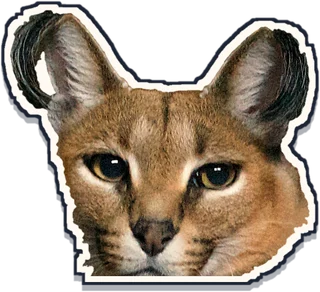
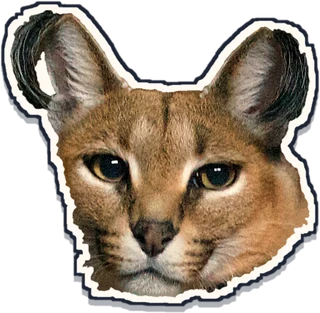
Give the staring floppa its chin back
* Drop the stare sticker's bottom crop, which sliced through its chin
* Regenerate stare.webp

> Committed on behalf of phinner by Opus 5.5

diff --git a/scripts/mascot/effects.py b/scripts/mascot/effects.py
@@ -78,8 +78,9 @@ def sticker(im, size, white=10, ink=5, shadow=10):
 
 if __name__ == "__main__":
     src_dir, out_dir = sys.argv[1], sys.argv[2]
-    # name: (bottom crop, a point inside the cat)
-    crops = {"stare": (760, (520, 500)), "hiss": (960, (560, 500)), "loaf": (None, (700, 600))}
+    # name: (bottom crop, a point inside the cat). stare needs none: clean_alpha already drops the
+    # wispy neck fur, and a straight crop would slice its chin off.
+    crops = {"stare": (None, (520, 500)), "hiss": (960, (560, 500)), "loaf": (None, (700, 600))}
     for name, (crop, seed) in crops.items():
         cut = clean_alpha(Image.open(f"{src_dir}/{name}.png").convert("RGBA"), crop, seed)
         graded = grade(cut)
